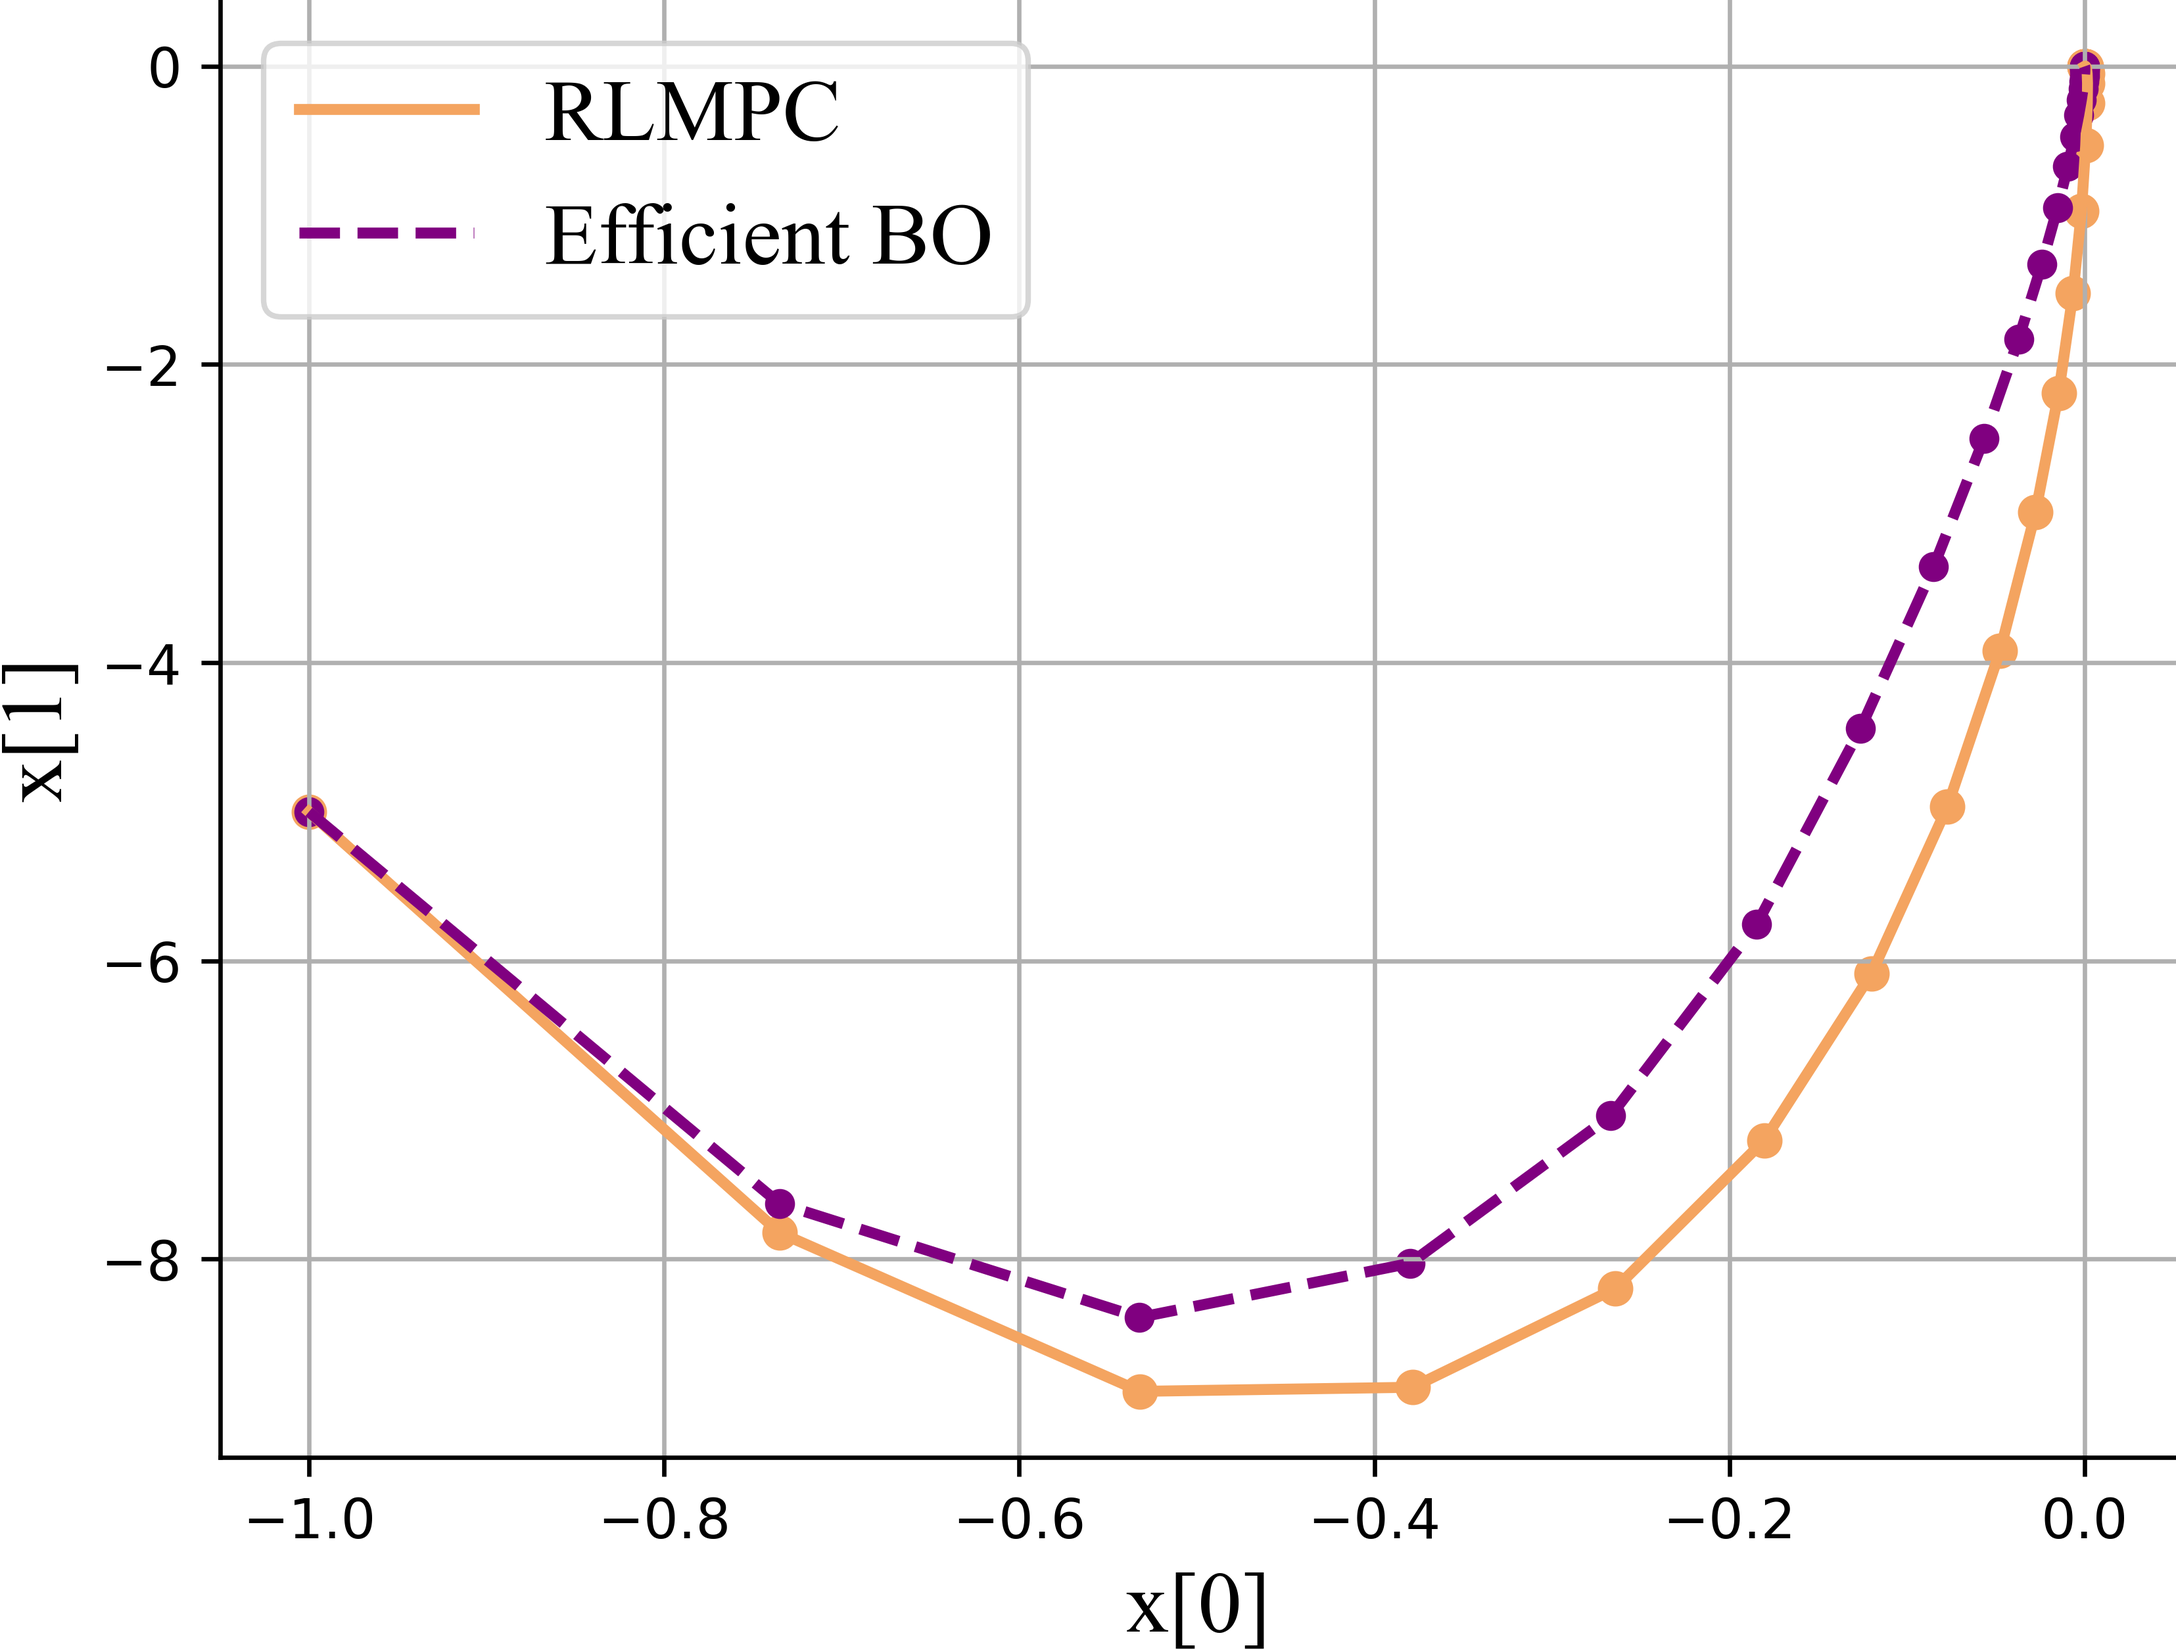
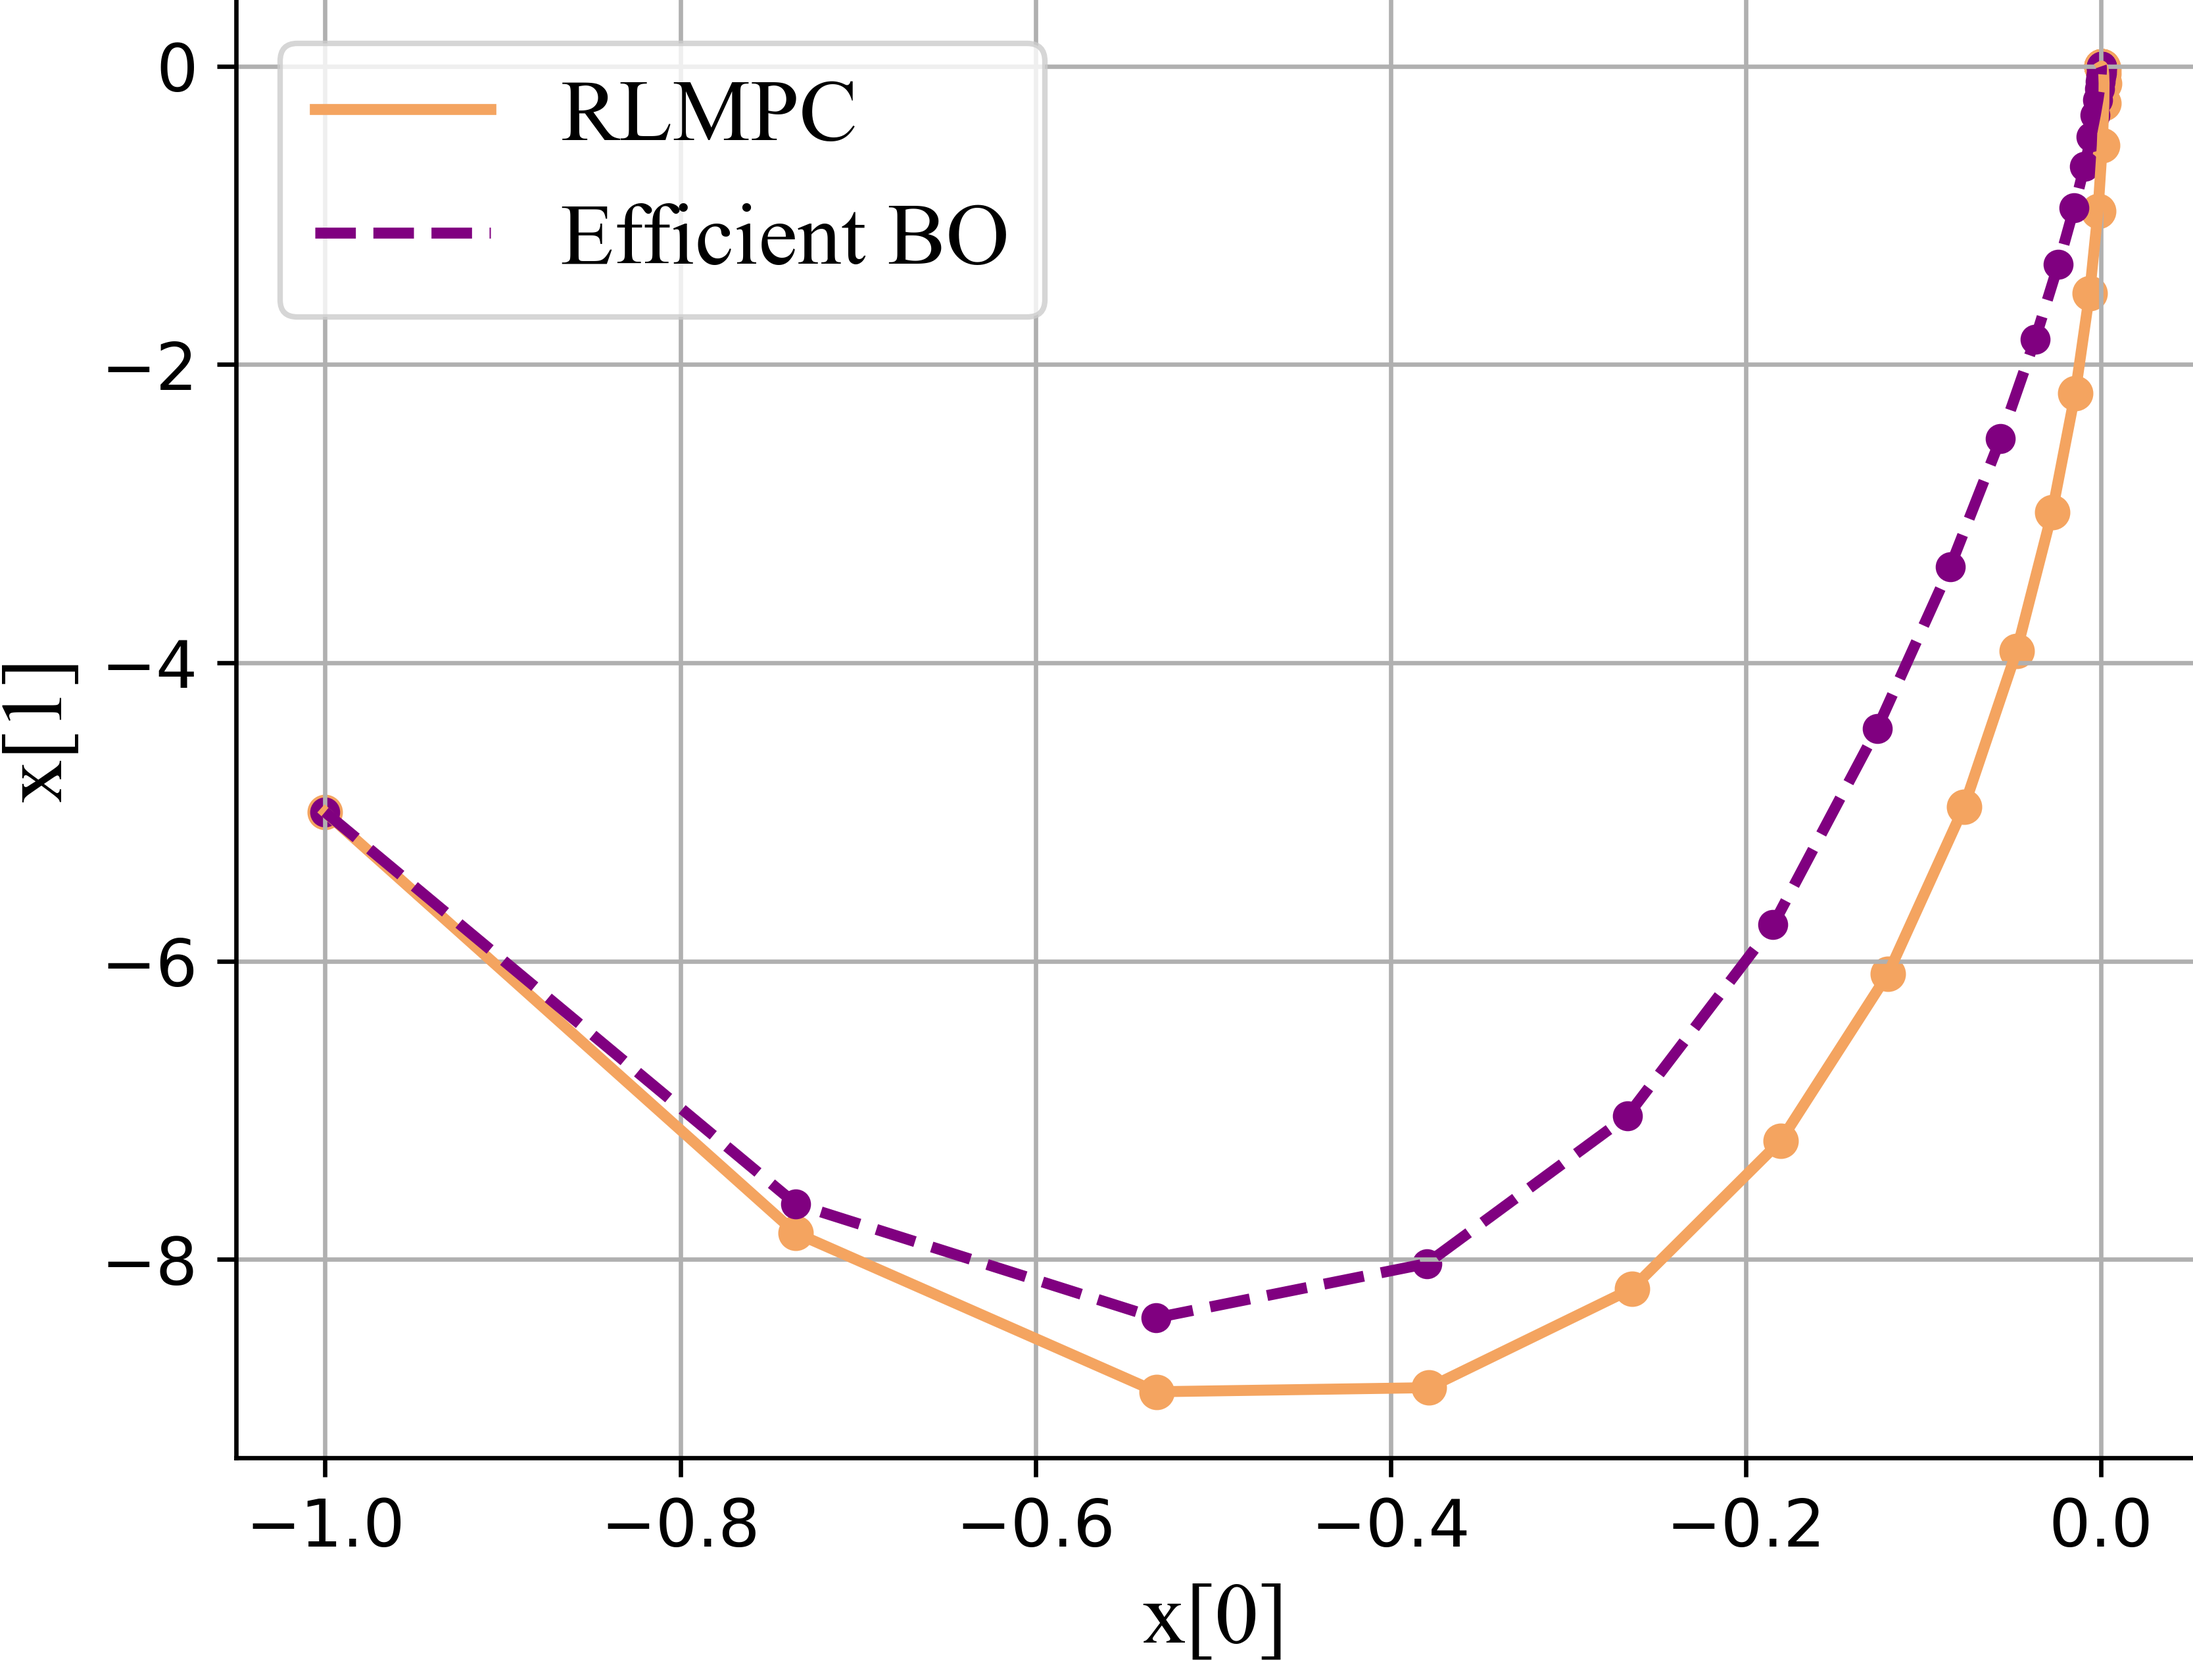
update

diff --git a/BO_LMPC/cstr/plot_tube_cstr.py b/BO_LMPC/cstr/plot_tube_cstr.py
@@ -38,6 +38,7 @@ for i in tube_index_tvbo:
     patch = plt.Polygon(v_tb, color=colors[1], linestyle='solid', fill=False)
     ax.add_patch(patch)
 
+plt.tick_params(labelsize=12)
 plt.legend(prop=font)
 plt.xlabel('x[0]', font)
 plt.ylabel('x[1]', font)
@@ -68,6 +69,7 @@ ax[0].set_ylim(-2, 5)
 ax[0].spines['right'].set_color('none')
 ax[0].spines['top'].set_color('none')
 ax[0].grid()
+ax[0].tick_params(labelsize=12)
 tb = []
 x_tb = np.linspace(1, ucl_tvbo.shape[0], ucl_tvbo.shape[0])
 for i in range(ucl_tvbo.shape[0]):
@@ -83,6 +85,7 @@ ax[1].set_ylim(-2, 5)
 ax[1].spines['right'].set_color('none')
 ax[1].spines['top'].set_color('none')
 ax[1].grid()
+ax[0].tick_params(labelsize=12)
 for i in range(5):
     p1 = (i+1, ucl_lmpc[i]+lm[i])
     p2 = (i+1, ucl_lmpc[i]-lm[i])
@@ -105,6 +108,7 @@ for i in range(5):
 # plt.plot(ucl_tvbo, label='ucl tvbo')
 # # plt.scatter(ucl_tvbo, s=10)
 # plt.legend()
+plt.tick_params(labelsize=12)
 plt.subplots_adjust(wspace=1.2)
 plt.savefig('./figs/u_tube_cstr.png', dpi=600, bbox_inches='tight', pad_inches=0)
 plt.show()

diff --git a/BO_LMPC/plot_tube.py b/BO_LMPC/plot_tube.py
@@ -62,6 +62,7 @@ ax[0].set_ylim(-1.1, 1.1)
 ax[0].spines['right'].set_color('none')
 ax[0].spines['top'].set_color('none')
 ax[0].grid()
+ax[0].tick_params(labelsize=12)
 tb = []
 x_tb = np.linspace(1, ucl_tvbo.shape[0], ucl_tvbo.shape[0])
 for i in range(ucl_tvbo.shape[0]):
@@ -98,6 +99,7 @@ for i in range(5):
 # plt.plot(ucl_tvbo, label='ucl tvbo')
 # # plt.scatter(ucl_tvbo, s=10)
 # plt.legend()
+plt.tick_params(labelsize=12)
 plt.subplots_adjust(wspace=1.2)
 plt.savefig('./figs/u_tube.png', dpi=600, bbox_inches='tight', pad_inches=0)
 plt.show()

diff --git a/BO_LMPC/cstr/plot_traj_cstr.py b/BO_LMPC/cstr/plot_traj_cstr.py
@@ -17,6 +17,7 @@ font = {'family': 'Times New Roman', 'size': 16}
 plt.grid()
 plt.xlabel('x[0]', font)
 plt.ylabel('x[1]', font)
+plt.tick_params(labelsize=12)
 plt.legend(prop=font)
 plt.savefig('./figs/traj_cstr.png', dpi=600, bbox_inches='tight', pad_inches=0)
 plt.show()

diff --git a/BO_LMPC/plot_traj.py b/BO_LMPC/plot_traj.py
@@ -15,6 +15,7 @@ ax.spines['right'].set_color('none')
 ax.spines['top'].set_color('none')
 font = {'family': 'Times New Roman', 'size': 16}
 plt.grid()
+plt.tick_params(labelsize=12)
 plt.xlabel('x[0]', font)
 plt.ylabel('x[1]', font)
 plt.legend(prop=font)

diff --git a/BO_LMPC/plot.py b/BO_LMPC/plot.py
@@ -113,6 +113,7 @@ font = {'family': 'Times New Roman', 'size': 16}
 plt.xlabel('Iterations', font)
 plt.ylabel('Cost', font)
 
+plt.tick_params(labelsize=12)
 # 不显示右侧和上面的边框线
 ax = plt.gca()
 ax.spines['right'].set_color('none')

diff --git a/BO_LMPC/cstr/plot_cstr.py b/BO_LMPC/cstr/plot_cstr.py
@@ -118,6 +118,7 @@ plt.ylabel('Cost', font)
 ax = plt.gca()
 ax.spines['right'].set_color('none')
 ax.spines['top'].set_color('none')
+plt.tick_params(labelsize=12)
 plt.legend(prop=font)
 plt.grid()
 plt.savefig('./figs/cost_cstr.png', dpi=600)
